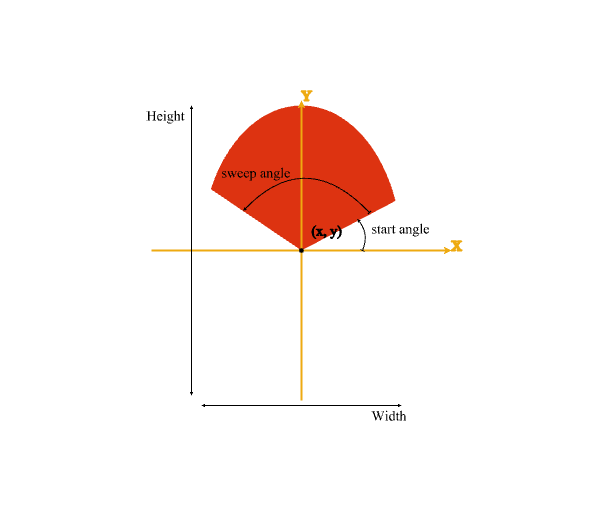
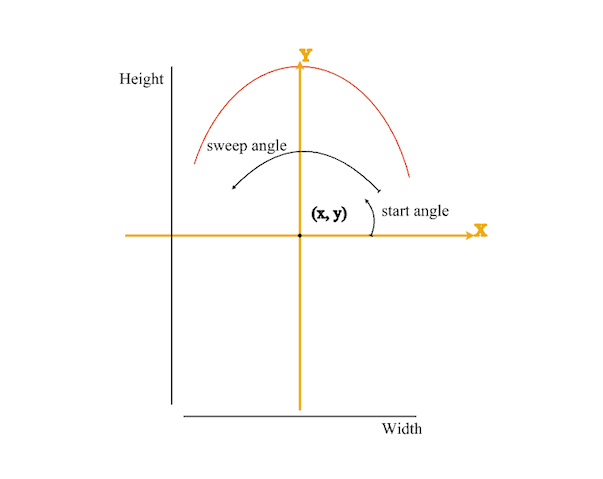
Make ellipse_arc draw an arc, not a sector. Rename old ellipse_arc as  ellipse_sector. Fixes #3274.
Existing documents that use ellipse_arc to draw a sector must be updated to use
ellipse_sector instead.

diff --git a/tao/doc/graph.doxy.h b/tao/doc/graph.doxy.h
@@ -2152,6 +2152,44 @@ circle (x:real, y:real, r:real);
 
 /**
  * @~english
+ * Draws an elliptic arc.
+ *
+ * Elliptic arc centered around (@p x, @p y) that occupies the given
+ * rectangle, beginning at the specified @p start angle and extending
+ * @p sweep degrees counter-clockwise. Angles are specified in
+ * degrees. Clockwise arcs can be specified using negative angles.
+ * @n
+ * An elliptic arc is normally open, but you may close the path as
+ * follows:
+@code
+path
+    ellipse_arc ...
+    close_path
+@endcode
+ *
+ * @~french
+ * Affiche un arc d'ellipse.
+ *
+ * L'arc est inscrit dans le rectangle centré en (@p x, @p y).
+ * Il commence à l'angle @p start (en degrés) et s'étend sur @p sweep degrés
+ * dans le sens contraire des aiguilles d'une montre. Des arcs qui
+ * s'étendent dans l'autre sens peuvent être tracés en utilisant des angles
+ * négatifs.
+ * @n
+ * Un arc d'ellipse est normalement ouvert, mais vous pouvez le fermer
+ * en écrivant:
+@code
+path
+    elipse_arc ...
+    close_path
+@endcode
+ * @~
+ * @image html ellipse_arc.png
+ */
+ellipse_arc (x:real, y:real, w:real, h:real, start:real, sweep:real);
+
+/**
+ * @~english
  * Draws an elliptic sector.
  *
  * Elliptic sector centered around (@p x, @p y) that occupies the given
@@ -2162,15 +2200,15 @@ circle (x:real, y:real, r:real);
  * @~french
  * Affiche un secteur elliptique.
  *
- * Le secteur elliptique est inscrit dans le rectangle centré en (@p x, @p y).
+ * Le secteur est inscrit dans le rectangle centré en (@p x, @p y).
  * Il commence à l'angle @p start (en degrés) et s'étend sur @p sweep degrés
  * dans le sens contraire des aiguilles d'une montre. Des arcs qui
  * s'étendent dans l'autre sens peuvent être tracés en utilisant des angles
  * négatifs.
  * @~
- * @image html ellipse_arc.png
+ * @image html ellipse_sector.png
  */
-ellipse_arc (x:real, y:real, w:real, h:real, start:real, sweep:real);
+ellipse_sector (x:real, y:real, w:real, h:real, start:real, sweep:real);
 
 /**
  * @~english

diff --git a/tao/widget.cpp b/tao/widget.cpp
@@ -9267,12 +9267,32 @@ Tree_p Widget::ellipseArc(Tree_p self,
                           Real_p cx, Real_p cy, Real_p w, Real_p h,
                           Real_p start, Real_p sweep)
 // ----------------------------------------------------------------------------
-//   Circular sector centered around (cx,cy)
+//   Elliptical arc centered around (cx,cy)
 // ----------------------------------------------------------------------------
 {
     // Start and sweep must be provided upsidedown because of y flip.
     // See Bug#787
     EllipseArc shape(Box(cx-w/2, cy-h/2, w, h), -start, -sweep);
+    if (path)
+        shape.Draw(*path);
+    else
+        layout->Add(new EllipseArc(shape));
+
+    if (currentShape)
+        layout->Add(new ControlRectangle(currentShape, cx, cy, w, h));
+
+    return XL::xl_true;
+}
+
+
+Tree_p Widget::ellipseSector(Tree_p self,
+                              Real_p cx, Real_p cy, Real_p w, Real_p h,
+                              Real_p start, Real_p sweep)
+// ----------------------------------------------------------------------------
+//   Elliptical sector centered around (cx,cy)
+// ----------------------------------------------------------------------------
+{
+    EllipseArc shape(Box(cx-w/2, cy-h/2, w, h), -start, -sweep, true);
     if (path)
         shape.Draw(*path);
     else

diff --git a/tao/shapes.cpp b/tao/shapes.cpp
@@ -438,13 +438,9 @@ void Ellipse::Draw(GraphicPath &path)
 
 void EllipseArc::Draw(GraphicPath &path)
 // ----------------------------------------------------------------------------
-//    Draw an arc of ellipse
+//    Draw an arc of ellipse or an ellipse sector
 // ----------------------------------------------------------------------------
 {
-    QPainterPath qt;
-    Point center = bounds.Center();
-    qt.moveTo(center.x, center.y);
-
     if (sweep > 0)
     {
         // Fix for #3101: make sure the polygon is always oriented right
@@ -452,10 +448,23 @@ void EllipseArc::Draw(GraphicPath &path)
         sweep = -sweep;
     }
 
+    QPainterPath qt;
+    if (sector)
+    {
+        Point center = bounds.Center();
+        qt.moveTo(center.x, center.y);
+    }
+    else
+    {
+        qt.arcMoveTo(bounds.lower.x, bounds.lower.y,
+                     bounds.Width(), bounds.Height(),
+                     start);
+    }
     qt.arcTo(bounds.lower.x, bounds.lower.y,
              bounds.Width(), bounds.Height(),
              start, sweep);
-    qt.closeSubpath();
+    if (sector)
+        qt.closeSubpath();
     path.addQtPath(qt);
 }
 

diff --git a/tao/shapes.h b/tao/shapes.h
@@ -156,13 +156,14 @@ struct Ellipse : Rectangle
 
 struct EllipseArc : Ellipse
 // ----------------------------------------------------------------------------
-//    An arc of ellipse that fits within the given bounds
+//    An arc of ellipse or ellipse sector that fits within the given bounds
 // ----------------------------------------------------------------------------
 {
-    EllipseArc(const Box &b, float start, float sweep)
-        : Ellipse(b), start(start), sweep(sweep) {}
+    EllipseArc(const Box &b, float start, float sweep, bool sector = false)
+        : Ellipse(b), start(start), sweep(sweep), sector(sector) {}
     virtual void        Draw(GraphicPath &path);
     float start, sweep;
+    bool  sector;
 };
 
 

diff --git a/tao/widget.h b/tao/widget.h
@@ -617,6 +617,8 @@ public:
                         Real_p w, Real_p h);
     Tree_p      ellipseArc(Tree_p self, Real_p x, Real_p y, Real_p w, Real_p h,
                            Real_p start, Real_p sweep);
+    Tree_p      ellipseSector(Tree_p self, Real_p x, Real_p y, Real_p w, Real_p h,
+                             Real_p start, Real_p sweep);
     Tree_p      roundedRectangle(Tree_p self,
                                  Real_p cx, Real_p cy, Real_p w, Real_p h,
                                  Real_p r);

diff --git a/tao/path3d.cpp b/tao/path3d.cpp
@@ -1235,6 +1235,8 @@ GraphicPath& GraphicPath::addQtPath(QPainterPath &qt, scale sy)
         }
         elements.push_back(Element(kind, position));
         bounds |= position;
+        if (i == 0 && kind == MOVE_TO)
+            start = position;
     }
 
     return *this;
